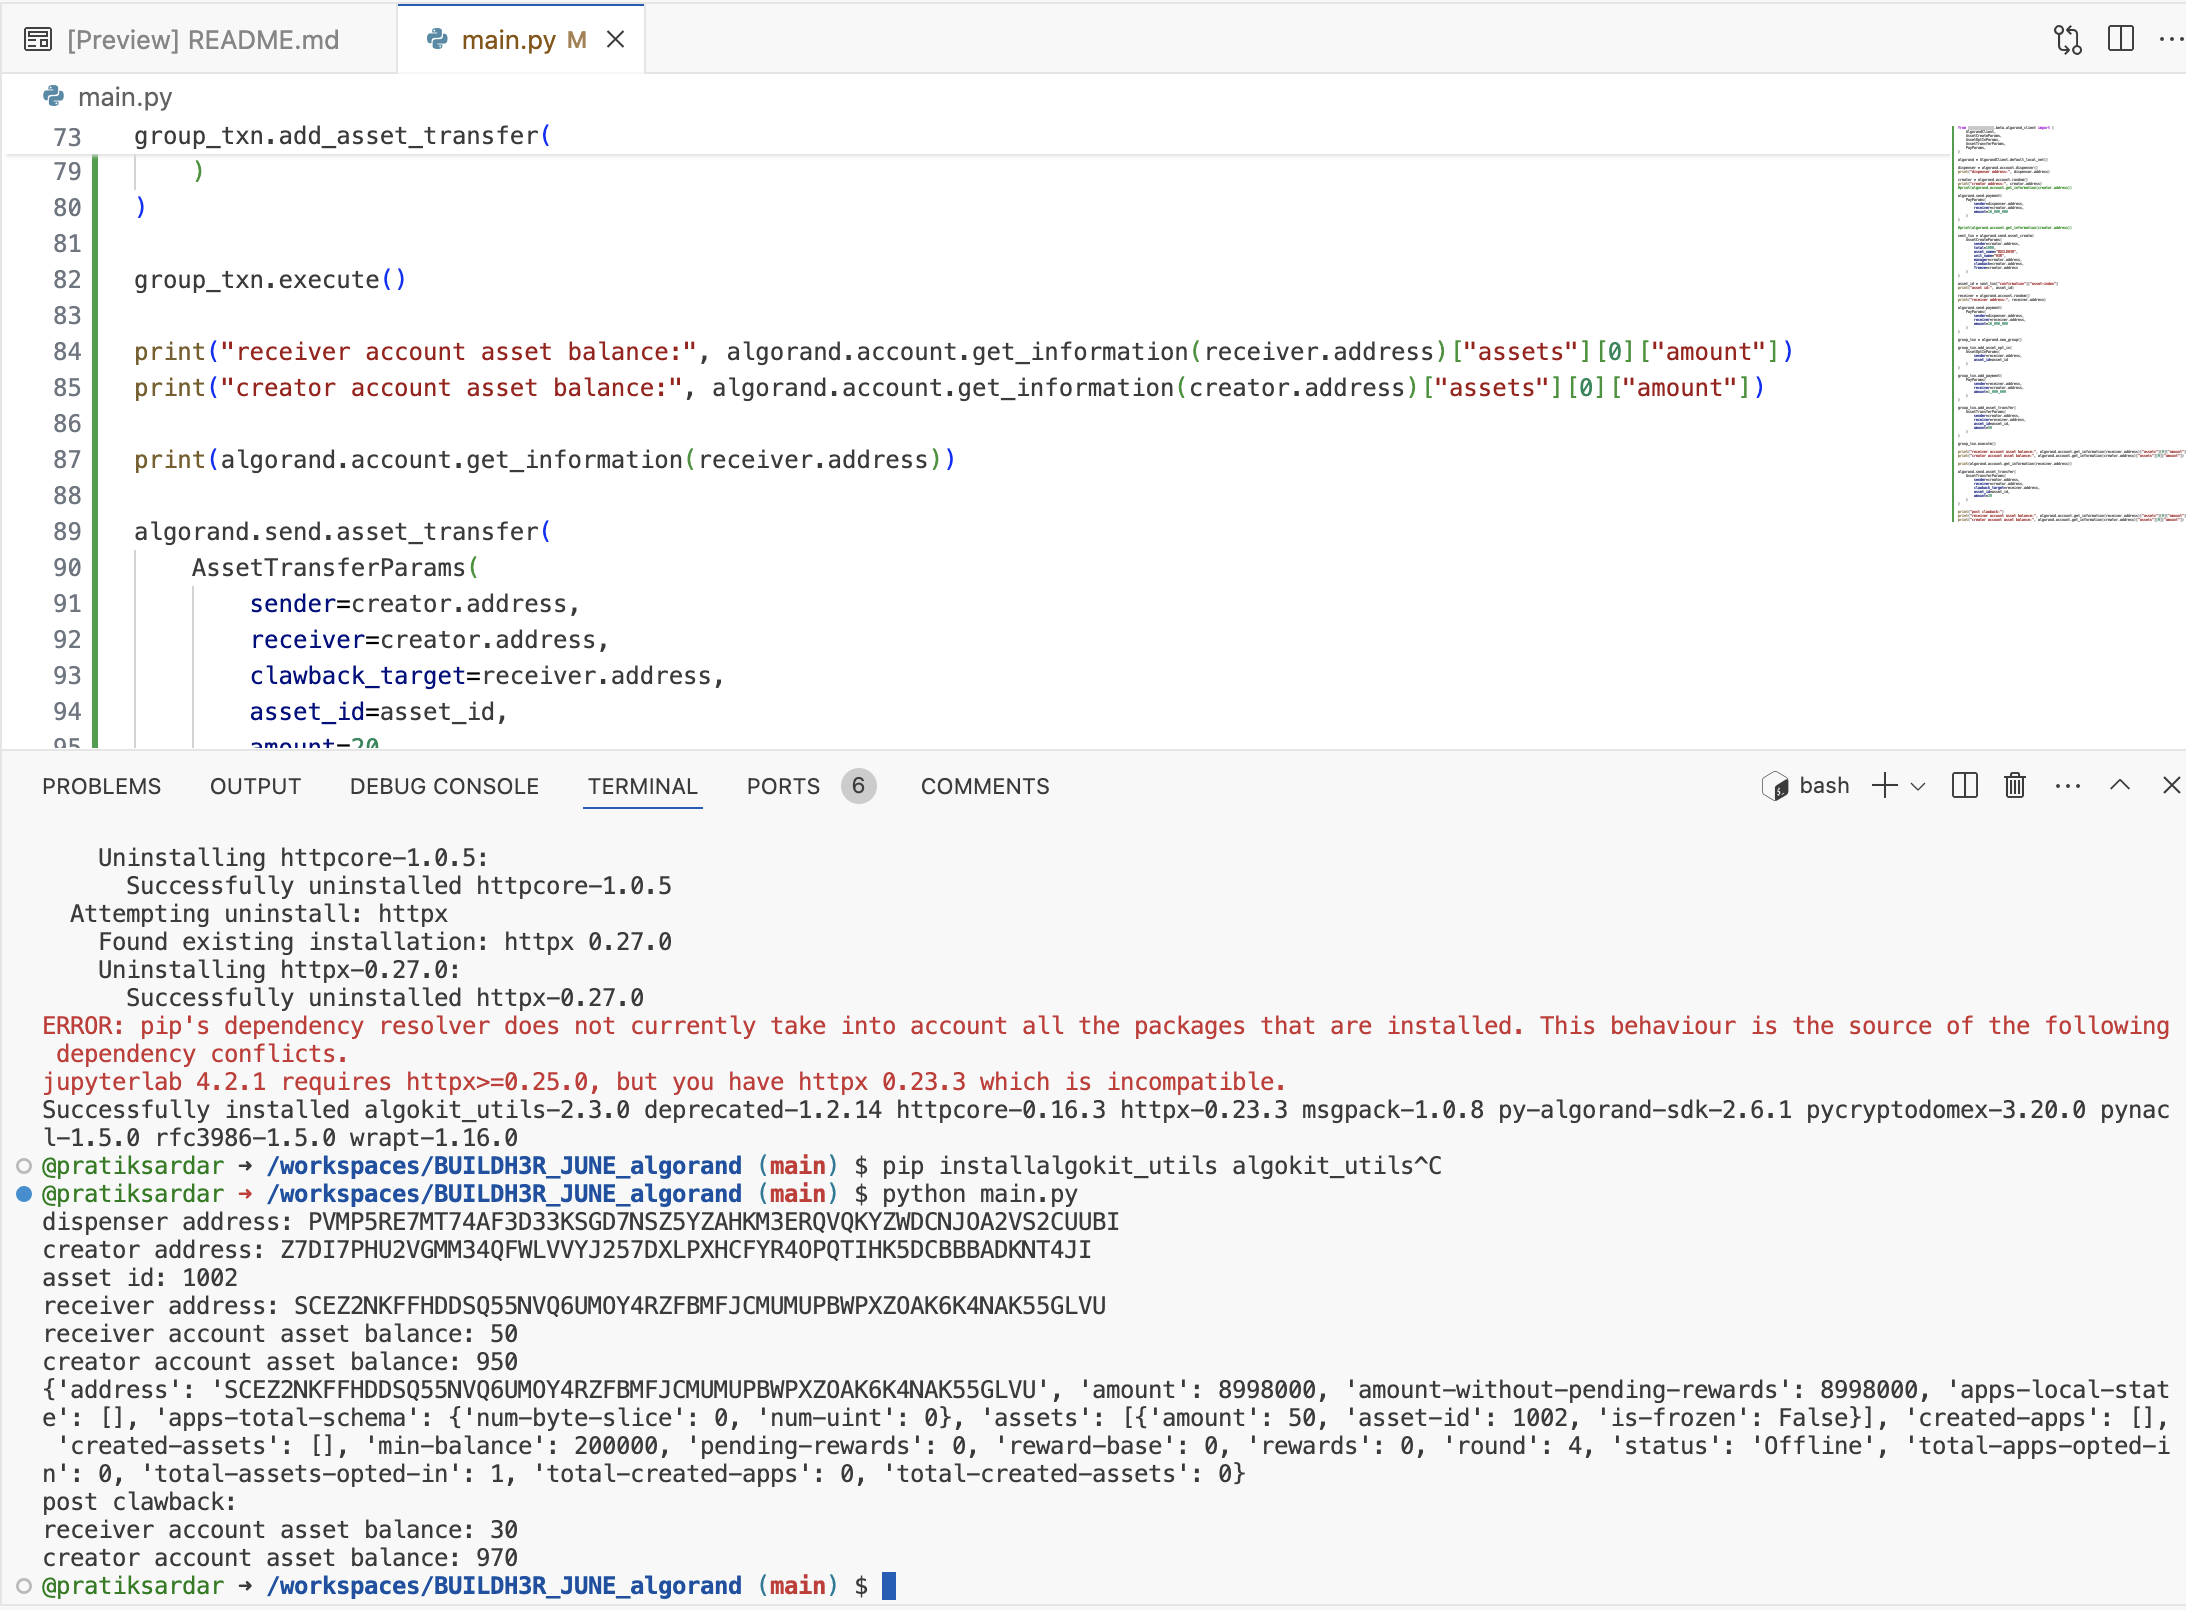
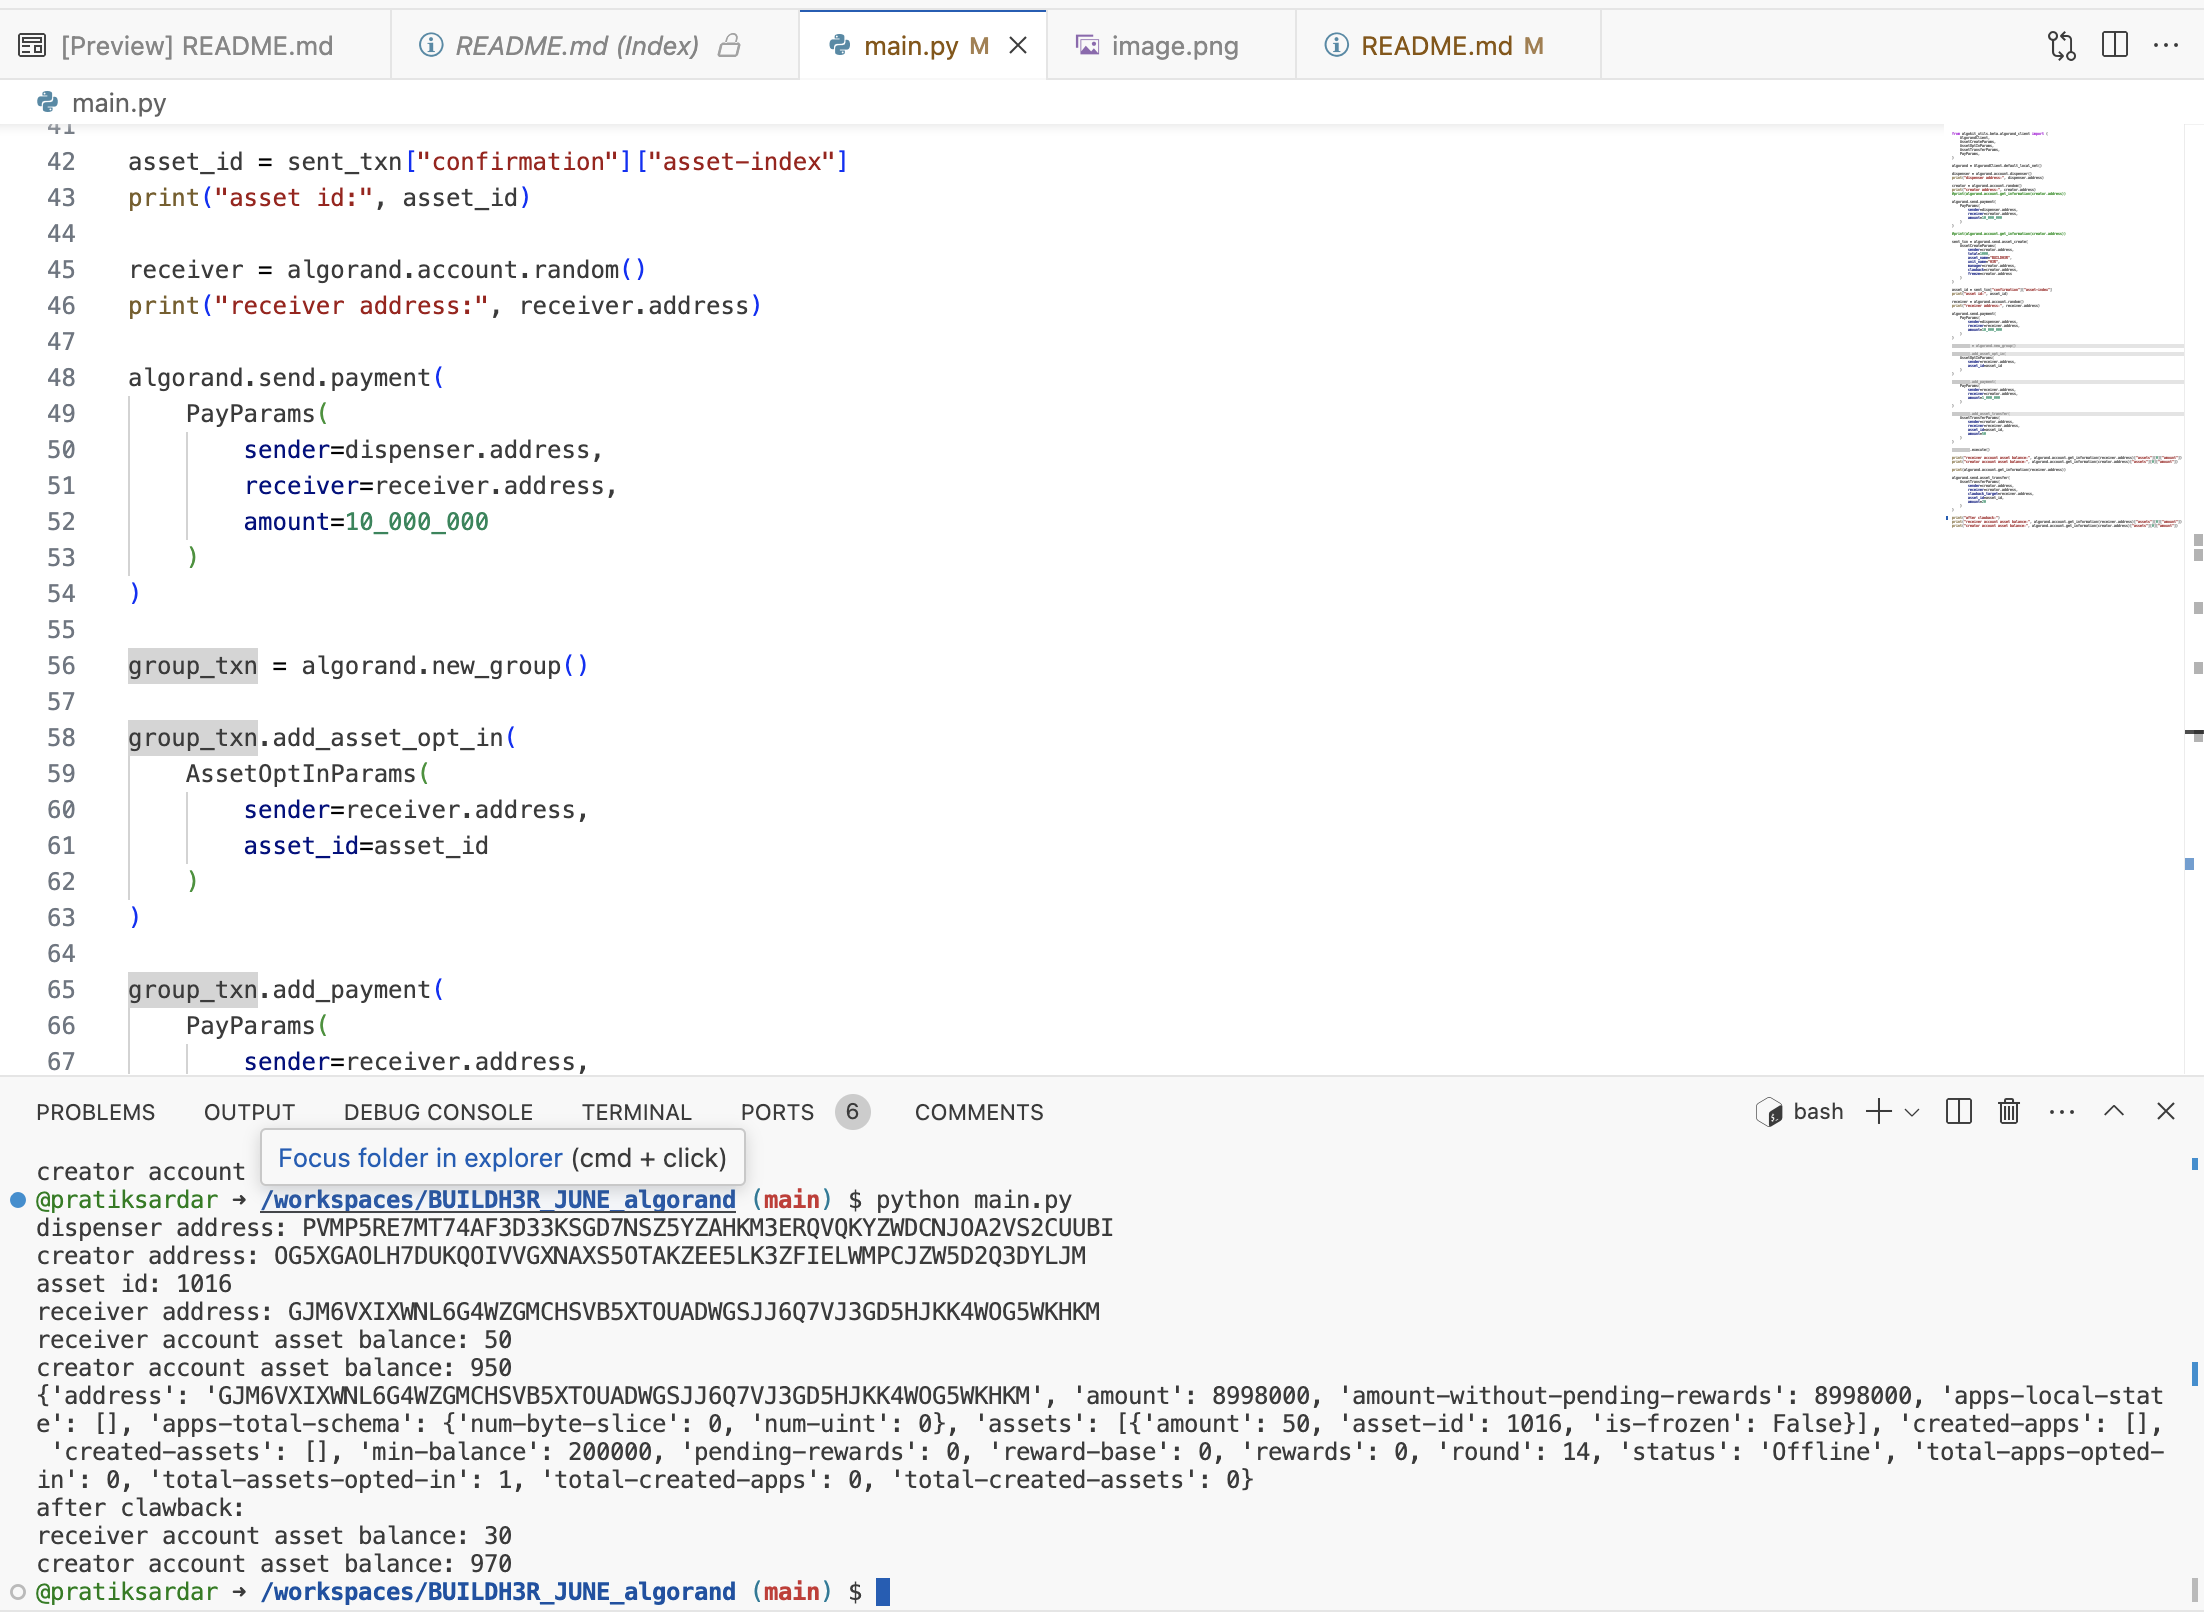
"updated image"

diff --git a/main.py b/main.py
@@ -96,6 +96,6 @@ algorand.send.asset_transfer(
     )
 )
 
-print("post clawback:")
+print("after clawback:")
 print("receiver account asset balance:", algorand.account.get_information(receiver.address)["assets"][0]["amount"])
 print("creator account asset balance:", algorand.account.get_information(creator.address)["assets"][0]["amount"])

diff --git a/README.md b/README.md
@@ -1,5 +1,5 @@
 ## Proof of script running:
-<img title="Proof of script running:" alt="Proof of script running:" src="images.png">
+<img title="Proof of script running:" alt="Proof of script running:" src="image.png">
 
 ### Join the algodevs community and work with thousands of developers just like you!
 
